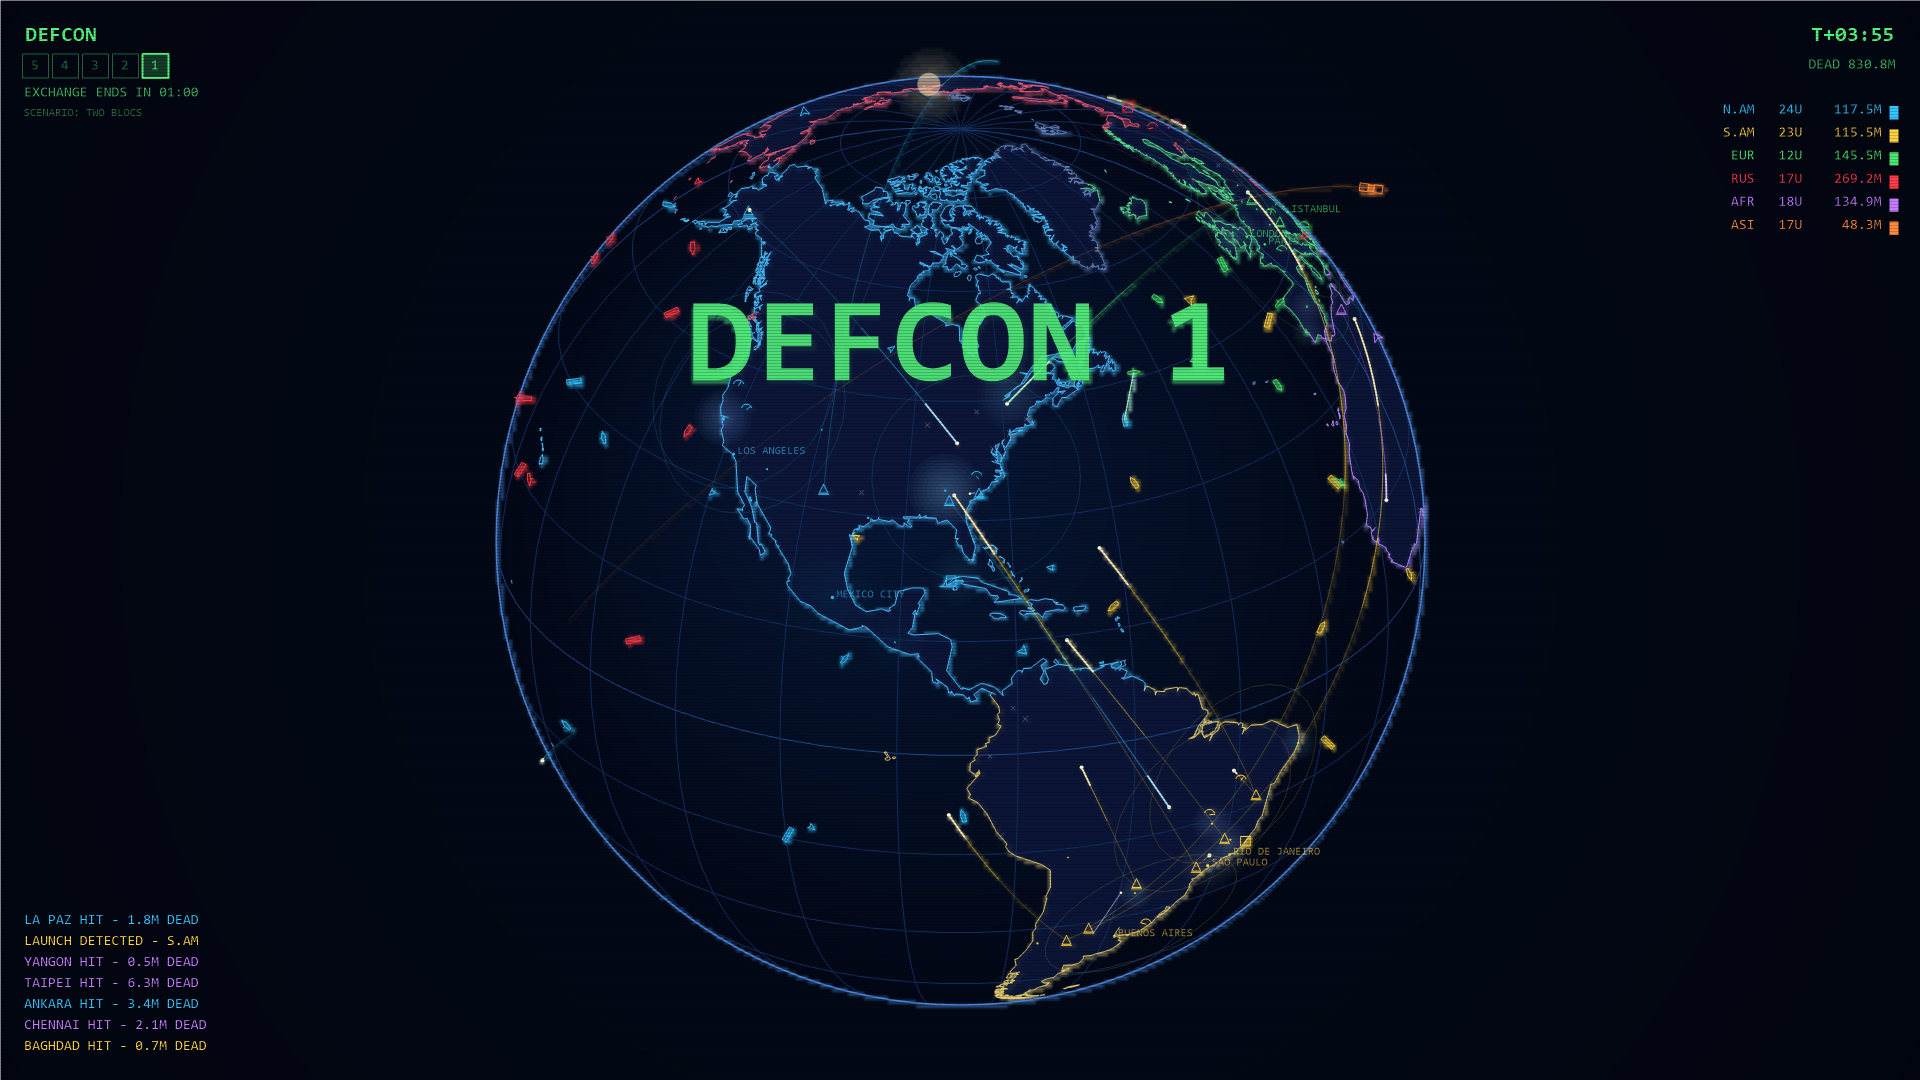
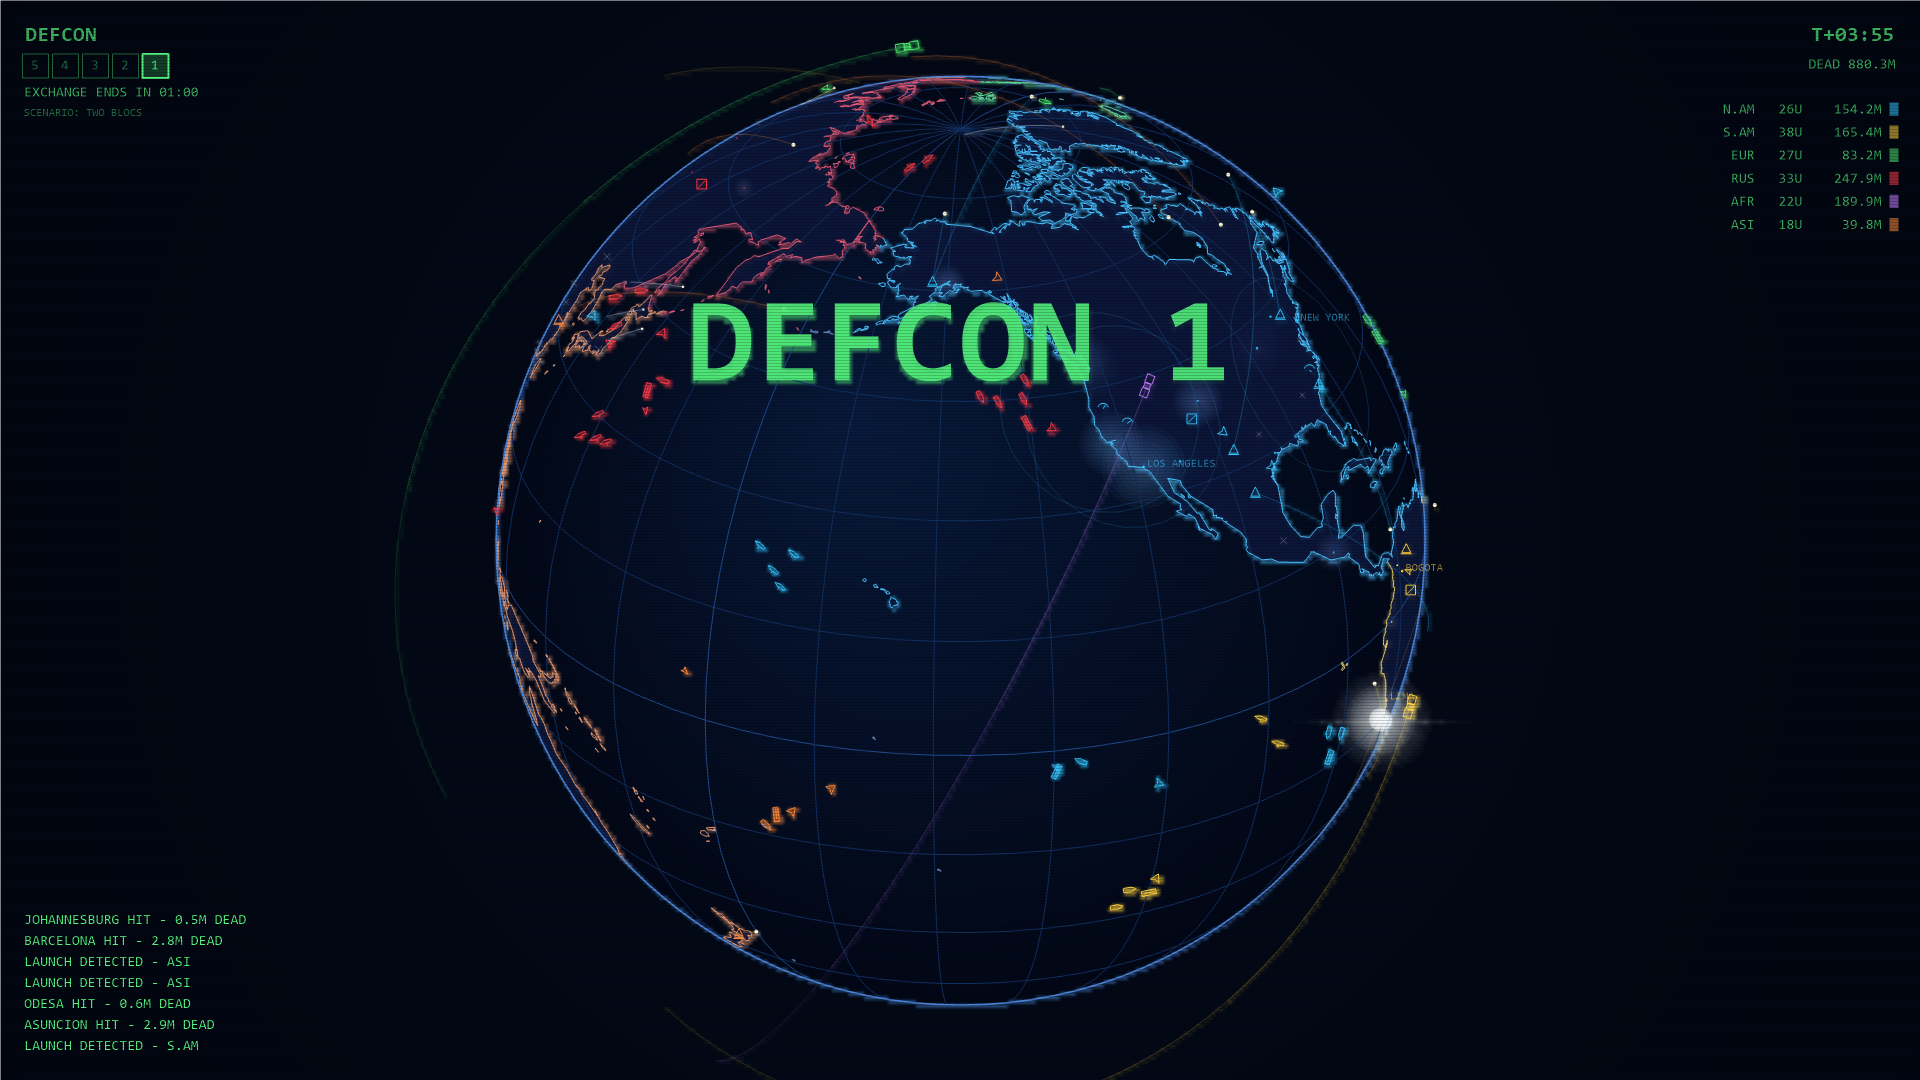
Match the DEFCON label to the readout, and refresh every screenshot
The label was the last thing at full Palette.Status outside the DEFCON ladder
itself. It is now the same green as everything else, which leaves statusBright
on exactly one element: the lit readiness cell. That is the one thing in the
interface that should pull the eye.

All seven images in the README predated the green readout, the white
detonations and their flares, the faint uniform missile trails, the fleets in
formation and the territory fix, so every one of them showed a build that no
longer exists. Regenerated from the current binary:

  - hero, DEFCON 1 over the Pacific with a detonation on the limb
  - the DEFCON 3 build-up, fleets in formation
  - orbital platforms in their tracks, a beam mid-strike
  - the aftermath, with the FINAL TALLY panel now green
  - the population haze, recropped over the Americas and clear of the banner
  - the readout detail, showing the new brightness hierarchy
  - the settings dialog, which had been rebuilt for high DPI since it was taken

Captions corrected to match: the hero is no longer over the Americas, the
orbital log no longer names Chongqing, and the haze is no longer over Asia.

diff --git a/Scene.cs b/Scene.cs
@@ -884,7 +884,7 @@ public sealed class Scene
         Color statusMid = Palette.Fade(Palette.Status, 0.72f);
         Color statusDim = Palette.Fade(Palette.Status, 0.42f);
 
-        _target.Text("DEFCON", FontSlot.Big, statusBright, m, m);
+        _target.Text("DEFCON", FontSlot.Big, statusMid, m, m);
 
         float cellW = 26f * _ui, cellH = 24f * _ui;
         float y = m + fBig * 1.5f;

diff --git a/README.md b/README.md
@@ -5,7 +5,7 @@ Mac-only DEFCON Globe screensaver that Ambrosia shipped alongside it. A vector g
 slowly against near-black space while six blocs fight a full nuclear exchange on it: fleets
 put to sea, radar sweeps, bombers scramble, and at DEFCON 1 the missiles fly.
 
-![The globe at DEFCON 1, warheads in flight over the Americas](screenshots/defcon1-exchange.png)
+![DEFCON 1 over the Pacific, a detonation burning on the limb](screenshots/defcon1-exchange.png)
 
 Nothing here is Introversion's code or art — it is an original build that borrows the look.
 
@@ -46,8 +46,9 @@ sixteen rounds to pay for it.
 
 ![Orbital platforms in their tracks, with an orbital strike in the log](screenshots/orbital-platforms.png)
 
-The coloured arcs are the stretch of orbit each platform is about to fly through, and the log
-records a strike on Chongqing.
+The coloured arcs are the stretch of orbit each platform is about to fly through. A beam is
+mid-strike at the bottom of the globe, and the log carries the strikes and their follow-up
+restrikes as they land.
 
 A platform is not defenceless. It carries five interceptors and will put one in the way of an
 anti-satellite shot climbing toward it, one at a time and never two at the same round. They
@@ -146,10 +147,13 @@ The readout, green throughout, with the scanlines on:
 
 ![The DEFCON readout in the top-left corner](screenshots/hud-readout.png)
 
-The haze over south and east Asia at DEFCON 3, while the population is still intact. It burns
-off city by city as the warheads land:
+Only the lit readiness cell is at full brightness; everything else in the interface sits one
+step down, so the eye goes to the DEFCON level first.
 
-![Population haze over south and east Asia](screenshots/population-haze.png)
+The haze over the Americas at DEFCON 3, while the population is still intact. It burns off
+city by city as the warheads land:
+
+![Population haze over the Americas](screenshots/population-haze.png)
 
 ## Performance
 
